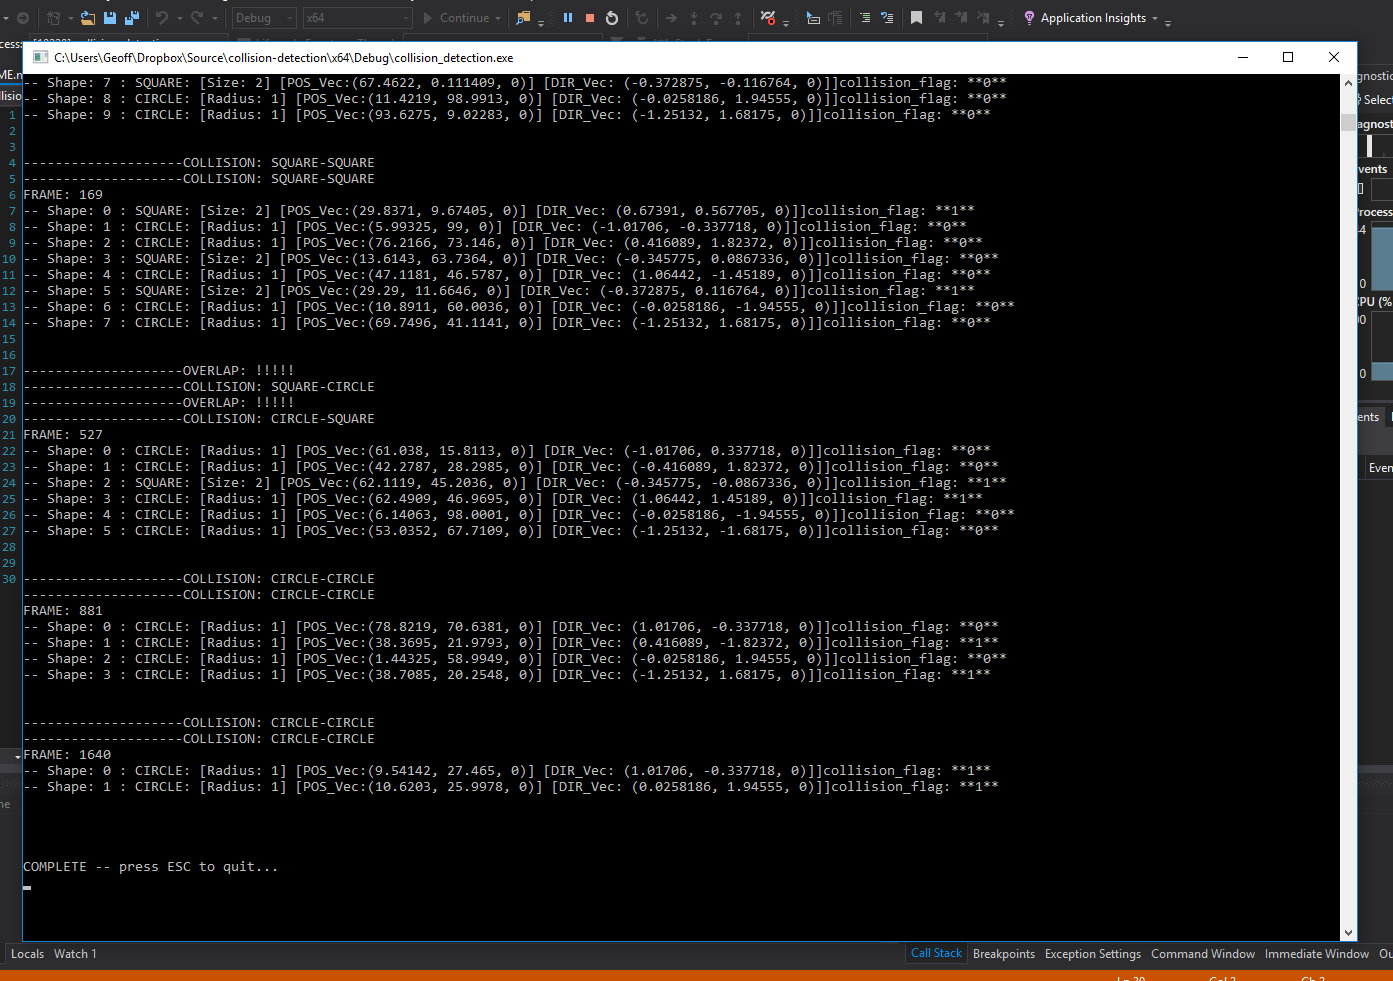
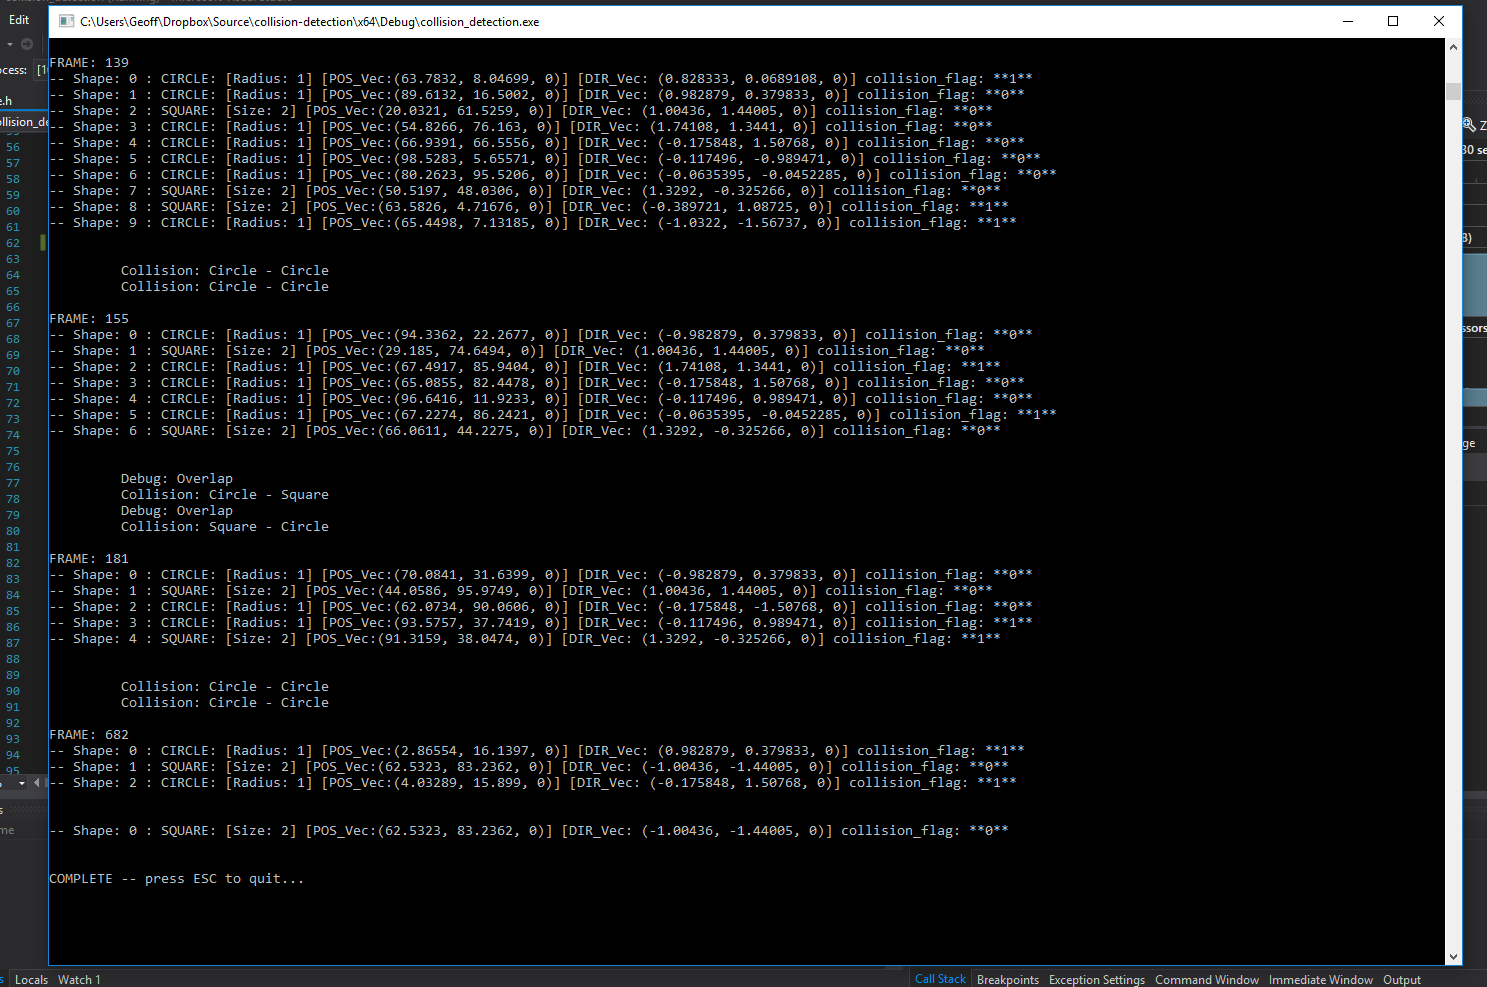
updated readme and changed a few comments

Changed region(s): [[0.0, 0.0, 1.0, 1.0]]

diff --git a/CollisionVisitor.cpp b/CollisionVisitor.cpp
@@ -14,7 +14,7 @@ void CollisionVisitor::visit(Square &s1, Square &s2) {
 	{
 		s2.collision_flag = true;		// set the collision flag for the rhs shape 
 		collision_flag = true;			// set the flag for the collision visitor so that the Game knows to use the delete method this round
-		std::cout << "--------------------COLLISION: SQUARE-SQUARE" << std::endl;
+		std::cout << "\t Collision: Sqyare - Square" << std::endl;
 	}
 
 };
@@ -30,12 +30,12 @@ void CollisionVisitor::visit(Square &s1, Circle &c2) {
 			) {
 			c2.collision_flag = true;						// a point from the square lies inside the circle
 			collision_flag = true;
-			std::cout << "--------------------COLLISION: SQUARE-CIRCLE" << std::endl;
+			std::cout << "\t Collision: Square - Circle" << std::endl;
 		}
 		else if (circleInSquare(c2.pos_v.x, c2.pos_v.y, s1)) {					// then check to see if centre of circle lies completely inside the square
 			c2.collision_flag = true;
 			collision_flag = true;
-			std::cout << "--------------------COLLISION: SQUARE-CIRCLE" << std::endl;
+			std::cout << "\t Collision: Circle - Circle" << std::endl;
 		}
 	}
 	// leave function
@@ -52,12 +52,12 @@ void CollisionVisitor::visit(Circle &c1, Square &s2) {
 			) {
 			s2.collision_flag = true;						// a point from the square lies inside the circle
 			collision_flag = true;
-			std::cout << "--------------------COLLISION: CIRCLE-SQUARE" << std::endl;
+			std::cout << "\t Collision: Circle - Square" << std::endl;
 		}
 		else if (circleInSquare(c1.pos_v.x, c1.pos_v.y, s2)) {					// then check to see if centre of circle lies completely inside the square
 			s2.collision_flag = true;
 			collision_flag = true;
-			std::cout << "--------------------COLLISION: CIRCLE-SQUARE" << std::endl;
+			std::cout << "\t Collision: Circle - Circle" << std::endl;
 		}
 	}
 	// leave function
@@ -93,7 +93,7 @@ bool CollisionVisitor::overlapTest(Square &s1, Circle &c2) {
 			|| (c2.pos_v.y + c2.radius) < s1.pos_v.y				// c2.top < s1.bottom
 			|| (c2.pos_v.y - c2.radius) > (s1.pos_v.y + s1.size)))	// c2.bottom > s1.top
 	{
-		std::cout << "--------------------OVERLAP: !!!!!" << std::endl;
+		std::cout << "\t Debug: Overlap" << std::endl;
 		return true;
 	}
 }
@@ -110,7 +110,7 @@ void CollisionVisitor::visit(Circle &c1, Circle &c2) {
 	if ((sum_c1 + sum_c2) <= sum_rad) {
 		c2.collision_flag = true;
 		collision_flag = true;
-		std::cout << "--------------------COLLISION: CIRCLE-CIRCLE" << std::endl;
+		std::cout << "\t Collision: Circle - Circle" << std::endl;
 	}
 };
 /*

diff --git a/Game.cpp b/Game.cpp
@@ -59,7 +59,7 @@ void Game::start() {
 			}
 		}
 		if (collision_vis.collision_flag) {											// if a collision has occured then proceed
-			std::cout << "FRAME: " << counter << std::endl;
+			std::cout << "\nFRAME: " << counter << std::endl;
 			printVerbose();
 			//printConcise();
 			removeCollisions();							// 3. remove all the shapes with their delete flags set

diff --git a/Circle.cpp b/Circle.cpp
@@ -26,5 +26,5 @@ void Circle::accept(Visitor & v){
     v.visit(*this);
 }
 void Circle::write(std::ostream& os) const{
-    os << "CIRCLE: " <<"[Radius: " << radius <<"] [POS_Vec:" << this->pos_v <<"] [DIR_Vec: " << this->dir_v <<"]" <<"]";
+    os << "CIRCLE: " <<"[Radius: " << radius <<"] [POS_Vec:" << this->pos_v <<"] [DIR_Vec: " << this->dir_v <<"] ";
 }

diff --git a/Square.cpp b/Square.cpp
@@ -29,6 +29,6 @@ void Square::accept(Visitor & v){
 }
 
 void Square::write(std::ostream& os) const{
-    os << "SQUARE: " <<"[Size: " << size <<"] [POS_Vec:" << this->pos_v <<"] [DIR_Vec: " << this->dir_v <<"]" <<"]";
+    os << "SQUARE: " <<"[Size: " << size <<"] [POS_Vec:" << this->pos_v <<"] [DIR_Vec: " << this->dir_v <<"] " ;
 
 }

diff --git a/README.md b/README.md
@@ -21,8 +21,72 @@ const float V_MIN 			// greatest velocity in the - axis
 const float V_MAX 			// greatest velocity in the + axis
 ```
 
-
 Press ESC to exit the console once output is complete...
+
+## Adding new shapes
+
+** to add other shapes... eg. triangle
+
+Note: be careful about where you include new classes to avoid circular references. If your getting very odd error messages that dont make a lot of sense. You could be encountereing a circluar ref.
+
+1. In shape.h create a pure virtual function to accept your new shape type. eg.
+```
+virtual void accept(Visitor& v, triangle& c) = 0;
+```
+
+2. Now create your shape class. It must be derived from Shape. eg.
+```
+class Triangle: public Shape {
+	...
+}
+```
+3. Create all the virtual functions in your new triangle class (check other classes and copy). eg.
+```
+void Triangle::accept(Visitor &v, Square &s) {
+    v.visit(*this, s);
+}
+```
+4. You'll also need to create a write method for printing the shape. Again ... just copy off another class
+ 
+5. In Visitor.h add the collision (visit) possibilities that can occur with the following pure virtual functions. eg.
+```
+virtual void visit(Triangle &s1, Triangle &s2) = 0;		// Triangles can now collide with other Triangles
+virtual void visit(Triangle &s1, Square &s2) = 0;		// Triangles can now collide with other Square
+virtual void visit(Triangle &s1, Circle &s2) = 0;		// Triangles can now collide with other Circle
+virtual void visit(Triangle &s) = 0;
+```
+
+6. Now you need to edit CollisionVisitor.cpp and CollisionVisitor.h, and create the virtual functions you defined in Visitor.h. These functions will define how a collision is resolved based on your shape type. Bear in mind when doing the maths here that the squares don't rotate as they move around the board.
+
+Important:
+* If a collision occurs, you need to set the collision_flag on shape2 (&s2) to true and set the collision_flag of the CollisionVisitor to true (copy other shapes essentially). 
+The CollisionVisitor will set shape1 (&s1) collision_flag at the end of the frame after all collisions for that shape have been resolved. All the colliding shapes are then deleted in one pass at the end of the frame using function:
+
+```
+Game::removeCollisions();
+```
+
+7. That's the setup done for the design pattern. To include your shape in the game demo ...
+
+```
+Game::createShapes()	// add another case for your shape type here so that it is generated at game start. 
+
+```
+eg.
+```
+case TRIANGLES: {
+			t = new Triangle(createVector(POS), createVector(DIR), 2.0f); // POS and DIR are just used to tell createVector() to return either a Vector of type position or direction (they are randomised slightly differently)
+		}break;
+```
+Also edit the game constuctor to include your new Shape
+```
+Game::Game()			// the constructor currently uses a variable to determine whether you are using CIRCLES, SQUARES, or BOTH... your new shape will need to be factored into this.
+
+```
+## Screenshots
+
+Sample console output: 
+![console output](./1.png)
 
 ## Authors
 
